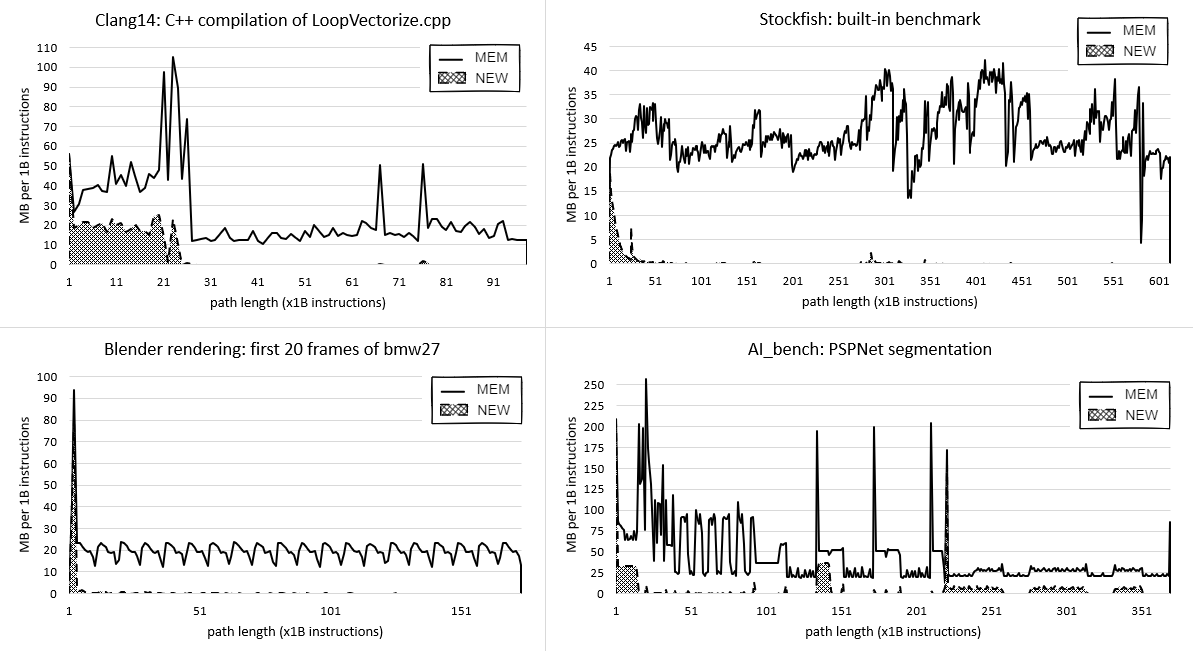
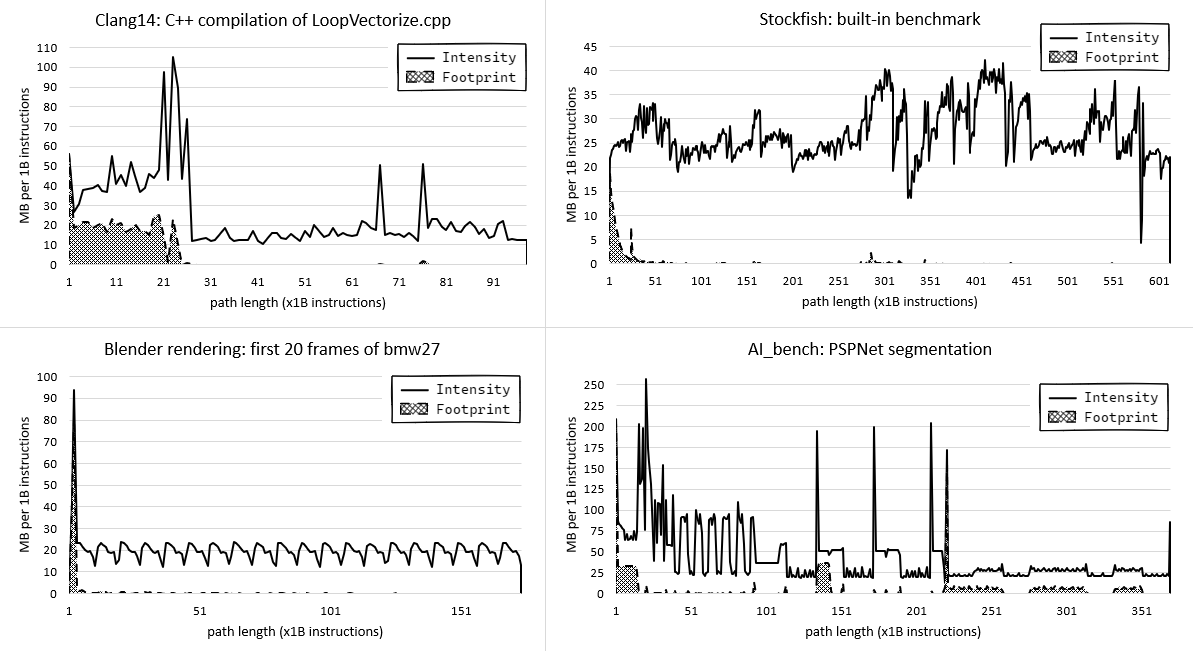
Reworked memory footprint section

diff --git a/chapters/7-Overview-Of-Performance-Analysis-Tools/7-8 Memory-Profilers.md b/chapters/7-Overview-Of-Performance-Analysis-Tools/7-8 Memory-Profilers.md
@@ -74,27 +74,27 @@ Since the number of allocations is growing but the total consumed memory doesn't
 
 Similar to temporary allocations, you can also find the paths that lead to the largest allocations in a program. In the dropdown menu at the top, you would need to select the "Consumed" flame graph. We encourage readers to explore other tabs as well.
 
-### Memory Footprint
+### Memory Intensity and Footprint
 
-Memory footprint is somewhat an overloaded term. Some resources use it to describe total virtual memory used by a process. However, in this section, we define *memory footprint* as the number of bytes a process accesses during a period of time, measured, for example, in MB per second. This definition enables us to describe the intensity of memory operations more accurately, and observe how it changes over time.
+In this section we will show how to measure memory *intensity* and memory *footprint* of a program. Memory intensity refers to the size of data being accessed by a phase of a program, measured, for example, in MB per second. A program with high memory intensity makes heavy use of the memory system, often accessing large amounts of data. On the other hand, a program with low memory intensity makes relatively fewer memory accesses, and may be more compute-bound, meaning it spends more time performing calculations rather than waiting for data from memory. Measuring memory intensity during a short time intervals enables us to observe how it changes over time. 
 
-### Case Study: Memory Footprint of Four Workloads {.unlisted .unnumbered}
+Memory footprint measures the total number of bytes accessed by an application. While calculating memory footprint, we only consider unique memory locations. That is, if a memory location was accessed twice during the lifetime of a program, we count the touched memory only once.
 
-In this case study we will analyze the memory footprint of four workloads: Blender ray tracing, Stockfish chess engine, Clang++ compilation, and AI_bench PSPNet segmentation. We hope that this study will give you an intuition on memory intensity of some real-world applications. We collect memory footprint using the Intel SDE (Software Development Emulator) tool using the method described on the Easyperf [blog](https://easyperf.net/blog/2024/02/12/Memory-Profiling-Part3)[^6] with intervals of one billion instructions. Figure @fig:MemFootCaseStudyFourBench shows the memory footprint of four selected workloads. 
+Figure @fig:MemFootCaseStudyFourBench shows the memory intensity and footprint of four workloads: Blender ray tracing, Stockfish chess engine, Clang++ compilation, and AI_bench PSPNet segmentation. We collect data for the chart with the Intel SDE (Software Development Emulator) tool using the method described on the Easyperf [blog](https://easyperf.net/blog/2024/02/12/Memory-Profiling-Part3)[^6] with intervals of one billion instructions. 
 
-![A case study of memory footprints of four workloads. MEM - total memory accessed during 1B instructions interval. NEW - accessed memory that has not been seen before.](../../img/memory-access-opts/MemFootCaseStudyFourBench.png){#fig:MemFootCaseStudyFourBench width=100%}
+![Memory intensity and footprint of four workloads. Intensity - total memory accessed during 1B instructions interval. Footprint - accessed memory that has not been seen before.](../../img/memory-access-opts/MemFootCaseStudyFourBench.png){#fig:MemFootCaseStudyFourBench width=100%}
 
-The solid line (MEM) tracks the number of bytes accessed during each interval of 1B instructions. Here, we don't count how many times a certain memory location was accessed. That is, if a memory location was loaded twice during an interval, we count the touched memory only once. For the same reason, we cannot aggregate time intervals. For example, we can see that, on average, the Blender benchmark touches roughly 20MB every interval. We cannot aggregate its 150 consecutive intervals and say that the total memory footprint of Blender was `150 * 20MB = 3GB`, because the same memory location could be accessed in two adjacent 1B instruction intervals. It would be true only if a program never repeats memory accesses across intervals.
+The solid line (Intensity) tracks the number of bytes accessed during each interval of 1B instructions. Here, we don't count how many times a certain memory location was accessed. That is, if a memory location was loaded twice during an interval `I`, we count the touched memory only once. However, if this memory location is accessed the third time in the subsequent interval `I+1`, it contributes to the memory intensity of the interval `I+1`. Because of this, we cannot aggregate time intervals. For example, we can see that, on average, the Blender benchmark touches roughly 20MB every interval. We cannot aggregate its 150 consecutive intervals and say that the memory footprint of Blender was `150 * 20MB = 3GB`. It would be possible only if a program never repeats memory accesses across intervals.
 
-The dashed line (NEW) tracks the size of the new data accessed every interval since the start of the program. Here, we count the number of bytes accessed during each 1B instructions interval that have never been touched before by the program. Aggregating all the NEW intervals (cross-hatched area under that dashed line) gives us the total memory footprint for a program. Here are the total memory footprint numbers for our benchmarks: Clang C++ compilation (487MB); Stockfish (188MB); PSPNet (1888MB); Blender (149MB). Keep in mind, some of these memory locations are accessed multiple times, so the overall pressure on the memory subsystem is higher.
+The dashed line (Footprint) tracks the size of the new data accessed every interval since the start of the program. Here, we count the number of bytes accessed during each 1B instructions interval that have never been touched before by the program. Aggregating all the intervals (cross-hatched area under that dashed line) gives us the total memory footprint for a program. Here are the memory footprint numbers for our benchmarks: Clang C++ compilation (487MB); Stockfish (188MB); PSPNet (1888MB); Blender (149MB). Keep in mind, these unique memory locations can be accessed many times, so the overall pressure on the memory subsystem may be high even if the footprint is relatively small.
 
-As you can see our workloads have very different behavior. Clang compilation has very high memory activity at the beginning, sometimes spiking to 100MB per 1B instructions, but after that, it decreases to about 15MB per 1B instructions. Any of the spikes on the chart may be concerning to a Clang developer: are they expected? Could they be related to some memory-hungry optimization pass? Can the accessed memory locations be compacted?
+As you can see our workloads have very different behavior. Clang compilation has high memory intensity at the beginning, sometimes spiking to 100MB per 1B instructions, but after that, it decreases to about 15MB per 1B instructions. Any of the spikes on the chart may be concerning to a Clang developer: are they expected? Could they be related to some memory-hungry optimization pass? Can the accessed memory locations be compacted?
 
-The Blender benchmark is very stable; we can clearly see the start and the end of each rendered frame. This enables us to focus on just a single frame, without looking at the entire 1000+ frames. The Stockfish benchmark is a lot more chaotic, probably because the chess engine crunches different positions which require different amount of resources. Finally, the PSPNet segmentation memory footprint is very interesting as we can spot repetitive patterns. After the initial startup, there are five or six sine waves from `40B` to `95B`, then three regions that end with a sharp spike to 200MB, and then again three mostly flat regions hovering around 25MB per 1B instructions. This is actionable information that can be used to optimize an application.
+The Blender benchmark is very stable; we can clearly see the start and the end of each rendered frame. This enables us to focus on just a single frame, without looking at the entire 1000+ frames. The Stockfish benchmark is a lot more chaotic, probably because the chess engine crunches different positions which require different amount of resources. Finally, the PSPNet segmentation memory intensity is very interesting as we can spot repetitive patterns. After the initial startup, there are five or six sine waves from `40B` to `95B`, then three regions that end with a sharp spike to 200MB, and then again three mostly flat regions hovering around 25MB per 1B instructions. This is actionable information that can be used to optimize an application.
 
-Such memory footprint charts help us estimate memory intensity and measure the total memory footprint of an application. By looking at the chart, you can observe phases and correlate them with the underlying algorithm. Ask yourself: "Does it look according to your expectations, or the workload is doing something sneaky?" You may encounter unexpected spikes in memory footprint. On many occasions, memory profiling helped identify a problem or served as an additional data point to support the conclusions that were made during regular profiling.
+Such charts help us estimate memory intensity and measure the memory footprint of an application. By looking at the chart, you can observe phases and correlate them with the underlying algorithm. Ask yourself: "Does it look according to your expectations, or the workload is doing something sneaky?" You may encounter unexpected spikes in memory intensity. On many occasions, memory profiling helped identify a problem or served as an additional data point to support the conclusions that were made during regular profiling.
 
-In some scenarios, memory footprint helps us estimate the pressure on the memory subsystem. For instance, if the total memory footprint is small (fits into the L3 cache), we might suspect that the pressure on the memory subsystem is low; remember that available memory bandwidth in modern processors is in GB/s and is getting close to 1 TB/s. On the other hand, when we're dealing with an application that accesses 10 GB/s and the total memory footprint is much bigger than the size of the L3 cache, then the workload might put significant pressure on the memory subsystem.
+In some scenarios, memory footprint helps us estimate the pressure on the memory subsystem. For instance, if the memory footprint is small (several megabytes), we might suspect that the pressure on the memory subsystem is low since the data will likely reside in the L3 cache; remember that available memory bandwidth in modern processors ranges from tens to hundreds of GB/s and is getting close to 1 TB/s. On the other hand, when we're dealing with an application that accesses 10 GB/s and the memory footprint is much bigger than the size of the L3 cache, then the workload might put significant pressure on the memory subsystem.
 
 While memory profiling techniques discussed in this chapter certainly help better understand the behavior of a workload, this is not enough to fully assess the temporal and spatial locality of memory accesses. We still have no visibility into how many times a certain memory location was accessed, what is the time interval between two consecutive accesses to the same memory location, and whether the memory is accessed sequentially, with strides, or completely random. The topic of data locality of applications has been researched for a long time, unfortunately, as of early 2024, there are no production-quality tools available that would give us such information. Further details are beyond the scope for this book, however, curious readers are welcome to read the corresponding [article](https://easyperf.net/blog/2024/02/12/Memory-Profiling-Part5)[^9] on the Easyperf blog.
 
